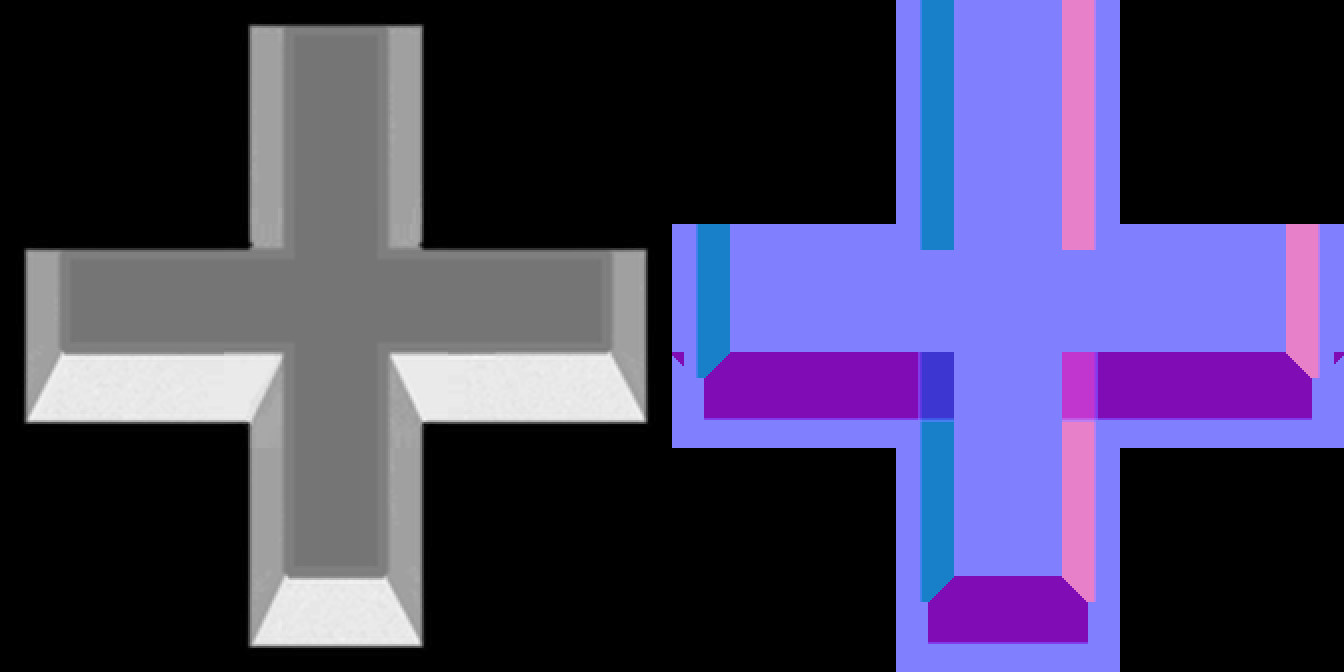
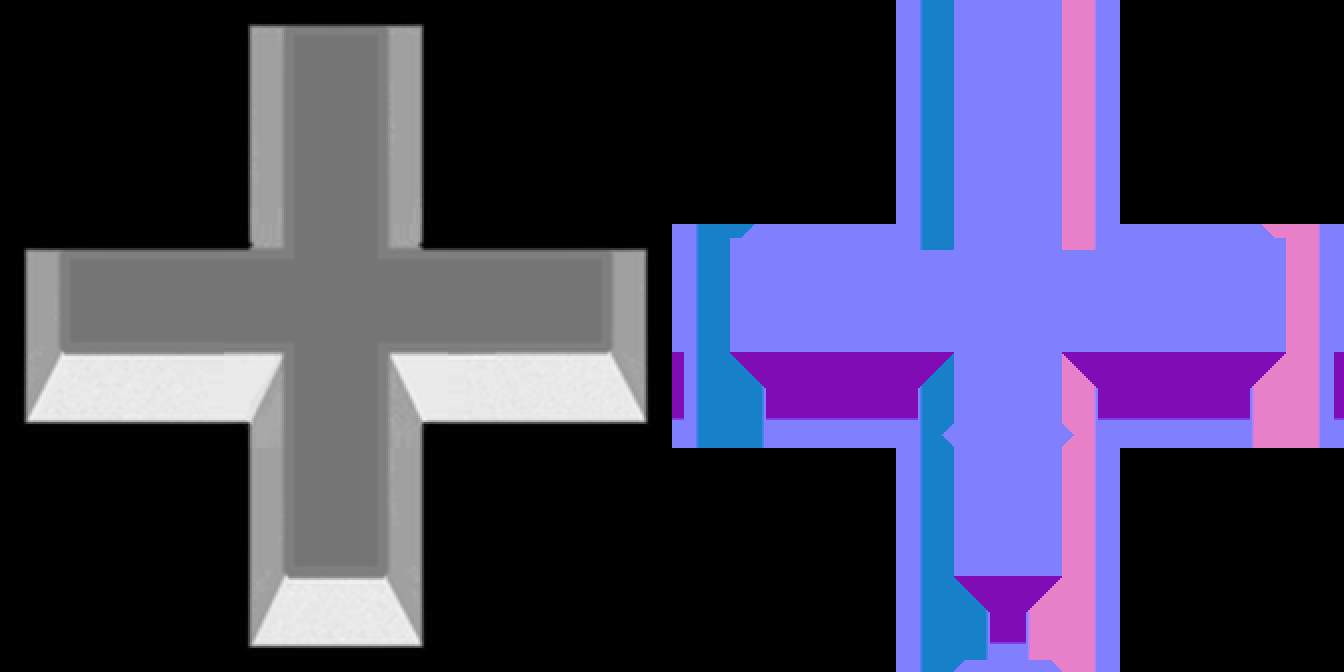
fix(analytic-wall-normals): I1 — angled corners: front-face splay + concave arm wedges
The art inverted the first miter model: the front face WIDENS 45-degree over the
side bands from each body corner (splay-gain via per-column body-end lookup);
concave T corners give the wedge to the perpendicular arm's side face. Gate
unchanged (flat 0.318, seams 0.00, relief 35.4%); lone/cross side-by-sides match
the art's trapezoids in every slant; shipped + drilled in-game.

diff --git a/marigold/atlas_geometry.py b/marigold/atlas_geometry.py
@@ -108,16 +108,57 @@ def build_cell(bits: tuple[int, int, int, int], win: int, gm: dict, tops: dict) 
     d_right = _dist_along(fp, axis=1, reverse=False)     # px right of a body's east boundary
     d_left = _dist_along(fp, axis=1, reverse=True)       # px left of a body's west boundary
 
-    front = ~fp & (d_below > 0) & (d_below <= fr + t)
-    east = ~fp & (d_right > 0) & (d_right <= sd + t)
-    west = ~fp & (d_left > 0) & (d_left <= sd + t)
+    # ── the ANGLED corner model (the art's own geometry, measured 2026-07-29) ─────────
+    # The front-face APRON hangs below the body and SPLAYS: its free ends widen at 45°
+    # over the flanking side bands (the prism's south face drawn in oblique — the side
+    # bands' visible width shrinks with depth until the face meets the outline).
+    #  · CONCAVE (a T corner): a perpendicular arm stands at apron rows; the arm's side
+    #    face claims the 45° wedge NEARER the arm than the body above (it widens downward
+    #    alongside the arm), the front face keeps the rest.
+    #  · CONVEX (a lone/end corner): the front face GAINS band pixels within 45° of the
+    #    flanked column's body corner (the splay), the side band keeps what's beyond.
+    # `A` = fp OR anything above it in the column (the silhouette column set).
+    A = np.logical_or.accumulate(fp, axis=0)
+    dA_right = _dist_along(A, axis=1, reverse=False)     # px right of the silhouette
+    dA_left = _dist_along(A, axis=1, reverse=True)       # px left of the silhouette
+
+    apron = ~fp & (d_below > 0) & (d_below <= fr + t)
+    concave_e = apron & (d_left > 0) & (d_left <= sd + t) & (d_left < d_below)    # arm to the EAST
+    concave_w = apron & (d_right > 0) & (d_right <= sd + t) & (d_right < d_below)  # arm to the WEST
+    front = apron & ~(concave_e | concave_w)
+
+    bandE = (~A) & (dA_right > 0) & (dA_right <= sd + t)
+    bandW = (~A) & (dA_left > 0) & (dA_left <= sd + t)
+    # The splay: depth below the FLANKED silhouette column's body end, at 45°.
+    fp_end = np.where(fp.any(axis=0), win - 1 - np.argmax(fp[::-1, :], axis=0), -10_000)
+    xs = np.arange(win)[None, :]
+    ys = np.arange(win)[:, None]
+    srcE = np.clip(xs - dA_right, 0, win - 1)
+    depthE = ys - fp_end[srcE]
+    gainE = bandE & (depthE > 0) & (dA_right <= depthE) & (depthE <= fr + t)
+    srcW = np.clip(xs + dA_left, 0, win - 1)
+    depthW = ys - fp_end[srcW]
+    gainW = bandW & (depthW > 0) & (dA_left <= depthW) & (depthW <= fr + t)
+    front = front | gainE | gainW
+    east = (bandE & ~gainE) | concave_w
+    west = (bandW & ~gainW) | concave_e
 
     out = np.tile(tops["top"], (win, win, 1))
     wsum = np.ones((win, win))
     out[~fp] = 0.0
     wsum[~fp] = 0.0
 
-    for mask, d, reach, key in ((front, d_below, fr, "front"), (east, d_right, sd, "east"), (west, d_left, sd, "west")):
+    def face_depth(key: str) -> np.ndarray:
+        """The ramp driver per face: its own directional distance, capped by its reach."""
+        if key == "front":
+            d = np.where(gainE, depthE, np.where(gainW, depthW, d_below))
+            return d, fr
+        if key == "east":
+            return np.where(concave_w, d_right, dA_right), sd
+        return np.where(concave_e, d_left, dA_left), sd
+
+    for mask, key in ((front, "front"), (east, "east"), (west, "west")):
+        d, reach = face_depth(key)
         ramp = np.where(mask, np.clip((reach + t - d) / max(t, 1), 0.0, 1.0), 0.0)
         # face·ramp + top·(1−ramp) INSIDE the mask — the ramp genuinely fades to the top
         # (weights must sum to 1 there, or normalisation cancels the fade).

diff --git a/docs/work/2026-07-29-analytic-wall-normals/issues.md b/docs/work/2026-07-29-analytic-wall-normals/issues.md
@@ -5,3 +5,16 @@ _Defects found during execution. Known inputs: the smooth diffuse is the seam-fi
 the front face is SOUTH-biased (profile sweep must respect the n/s asymmetry — N arms show
 the wall's back/top, S arms the front face; E/W are side-symmetric); the corpus normal
 encoding is view-space +Y-up (normals.py's convention, verified against Laigter)._
+
+## I1 · Angled internal/external corners (user-reported post-delivery; FIXED 2026-07-29)
+
+The v1 apron had square ends and butt joints. The art's corner crops (T + lone cells)
+taught the true model, which INVERTED my first miter guess: the front face SPLAYS —
+widening at 45° over the flanking side bands from each body corner (the prism's south
+face in oblique; the side bands' visible width shrinks with depth until the face meets
+the outline) — while at CONCAVE (T) corners the perpendicular arm's side face claims the
+45° wedge nearer the arm. Implemented as splay-GAIN over the bands (per-column body-end
+lookup at 45°) + the concave nearest-surface rule; the failed convex-CUT attempt is in
+history. Shipped: relief 35.4 %, flat 0.318°, seams 0.00 unchanged; the lone/cross
+side-by-sides (`corners-final.png`) match the art's trapezoids in every slant direction,
+and the in-game torch drill shows the mitered face ends catching light correctly.
